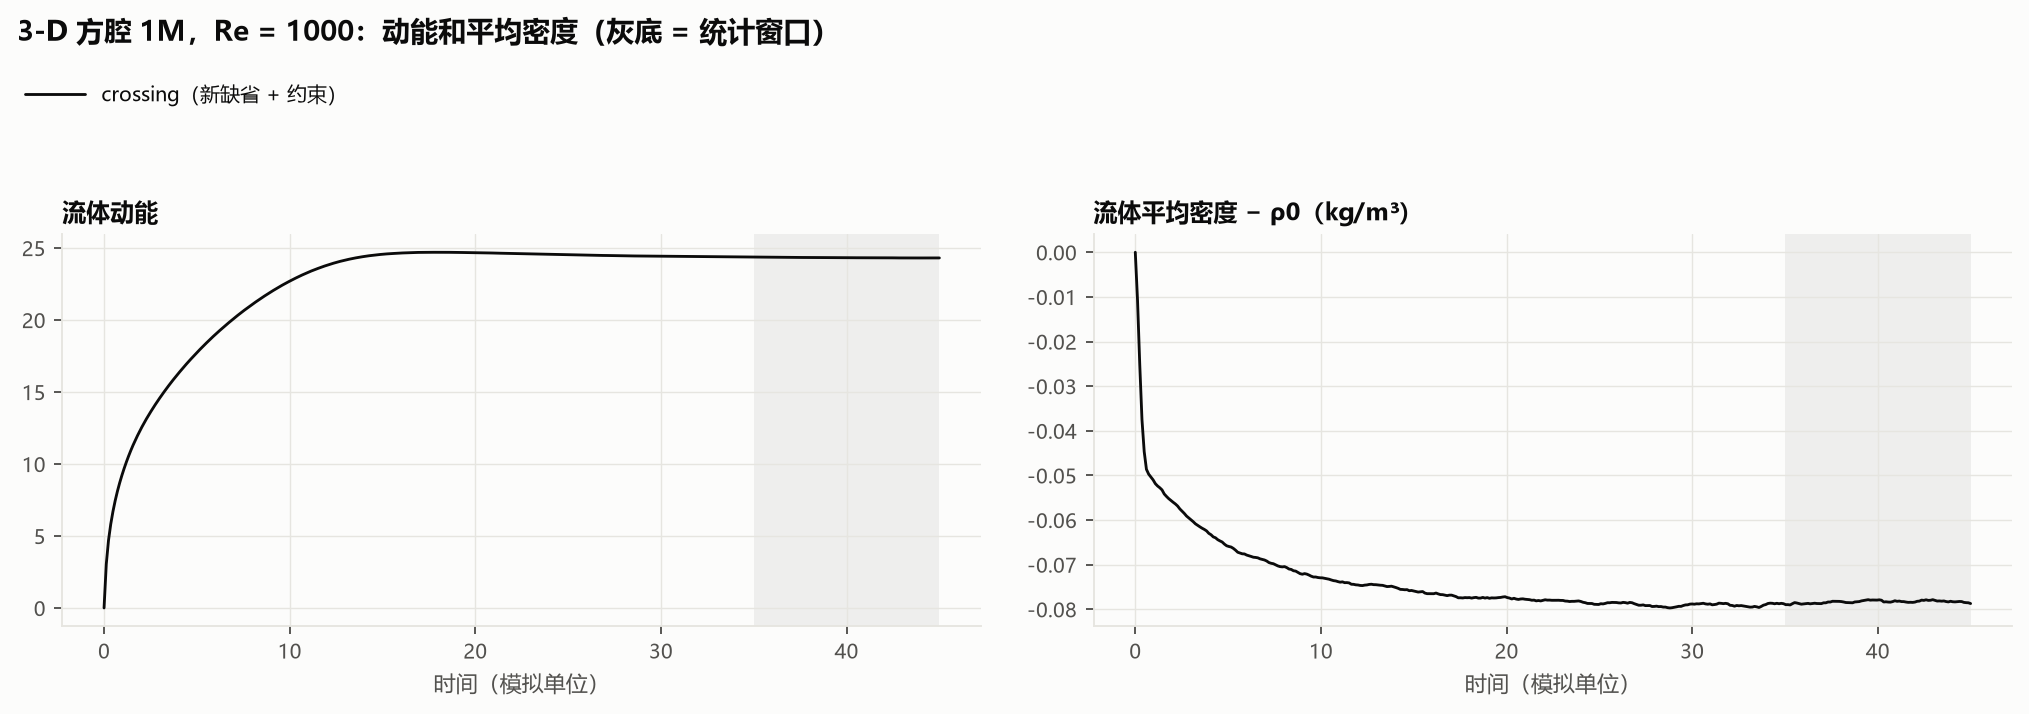
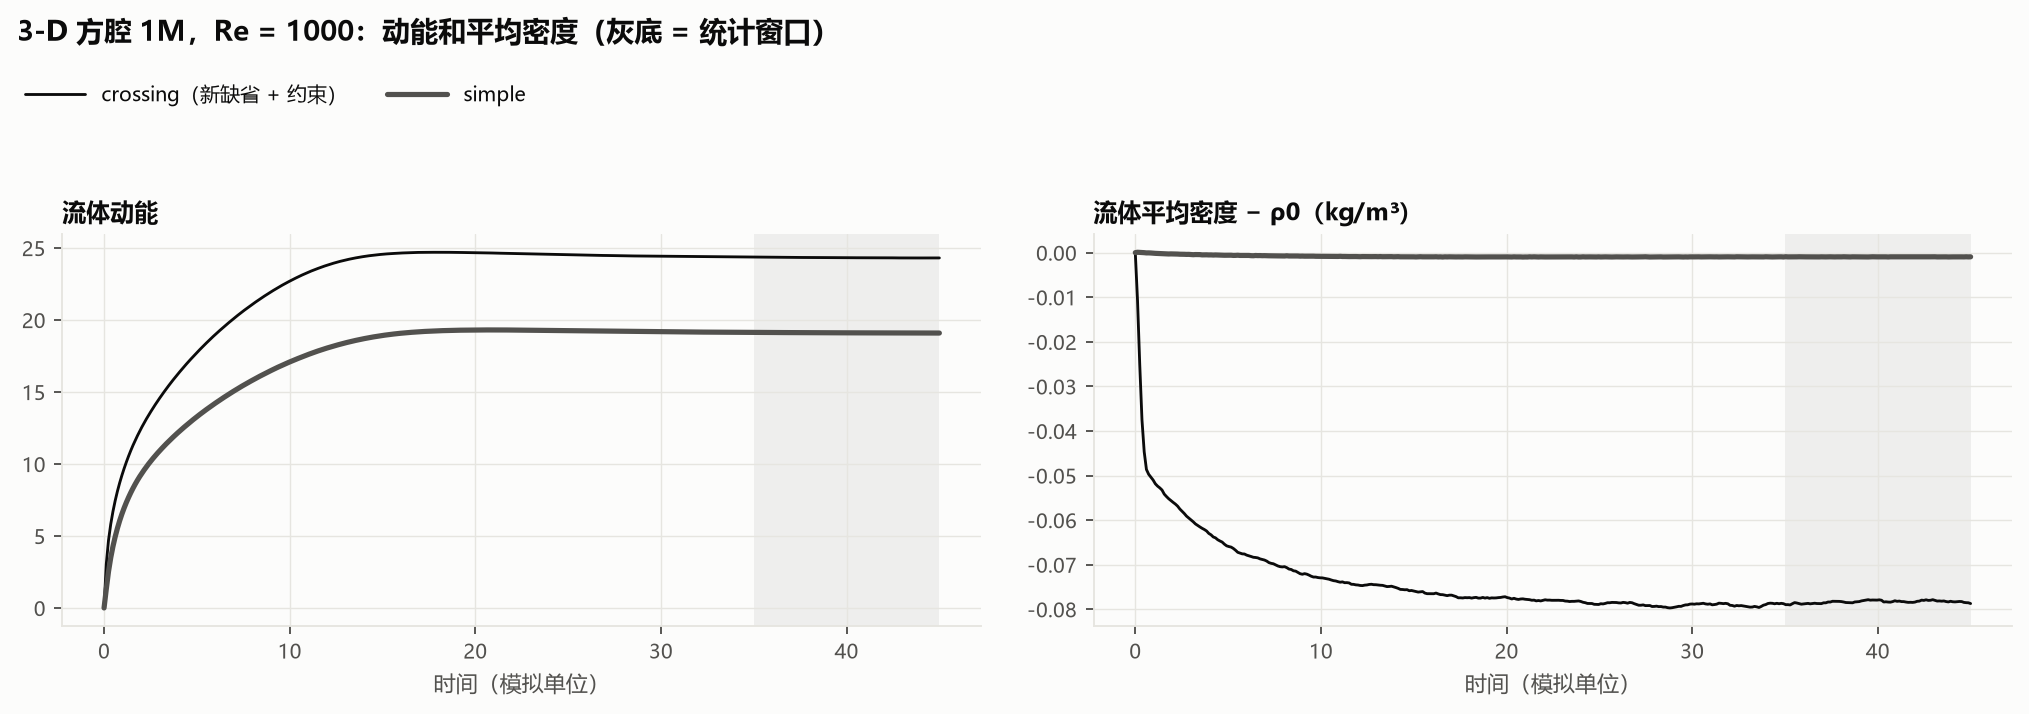
report section 19, fourth update: the 3-D cavity simple run (t = 45) - stable, 10.8 ms per step; crossing's main vortex about 15 % stronger than simple's
Claude-Session: https://claude.ai/code/session_01Bm1HYXBKtvVtXUBSQW4W5E

diff --git a/claude/wall_crossing/report_source.md b/claude/wall_crossing/report_source.md
@@ -6,7 +6,7 @@
 - 每个数字后面的 `wc-…` 是 `logs/wall_crossing/runs.jsonl` 里的记录号。`logs/` 不入库，所以记录文件另存了一份在 `claude/wall_crossing/runs.jsonl`（本机）和 `claude/wall_crossing/runs_DESKTOP-9IN3NPD.jsonl`（第二台机器）。
 
 > **本报告的状态（2026-11-17 22:35 之后）**：这是一份没有收尾的草稿。用户在 22:35 要求停掉所有长运行，只做第 6 节的机理确认实验，并且不继续原任务里没做完的项目；11-18 又先后要求做第 7 节和第 8 节的诊断，再要求改一个缺省值并重新验证（第 9 节），最后给了一份新的任务书：速度的二阶延拓（第 10 节）；都不继续原任务。因此：
-> - 第 6 到 18 节是完整的；第 19 节（2026-11-19，长时间验证）进行中：第 2 节（短检查）已完成并写入，第 3 节的长运行 03:02 起在跑，3-D crossing 和远端 adami 已写入。最新的是第 19 节，它之前是第 18 节（2026-11-19，完整方案设为 crossing 的缺省）、第 17 节（2026-11-19，250² 完整方案 + 约束续跑到 t = 200）、第 16 节（2026-11-18，ψ_min、速度极值和涡心的后处理检验，没有新运行）、第 15 节（2026-11-18，封闭域的流体总体积约束；完整方案 + 约束的 250² 和 500²）、第 14 节（完整方案：逐对几何 + 完整向量 + 两个反射）、第 13 节（反射版和“逐对几何 + 完整向量”跑到 t = 100）、第 12 节（逐对几何和压力、密度在壁面处的反射）、第 10 节（速度的二阶延拓）和第 11 节（旧缺省与一阶的场之差）；第 7 节更正了第 6 节结论里的一句话。第 10 节起“一阶”指第 9 节改过之后的现缺省（`normal`），“旧缺省”指 `full`。
+> - 第 6 到 18 节是完整的；第 19 节（2026-11-19，长时间验证）进行中：第 2 节（短检查）已完成并写入，第 3 节的长运行 03:02 起在跑，3-D crossing / simple 和远端 adami 已写入。最新的是第 19 节，它之前是第 18 节（2026-11-19，完整方案设为 crossing 的缺省）、第 17 节（2026-11-19，250² 完整方案 + 约束续跑到 t = 200）、第 16 节（2026-11-18，ψ_min、速度极值和涡心的后处理检验，没有新运行）、第 15 节（2026-11-18，封闭域的流体总体积约束；完整方案 + 约束的 250² 和 500²）、第 14 节（完整方案：逐对几何 + 完整向量 + 两个反射）、第 13 节（反射版和“逐对几何 + 完整向量”跑到 t = 100）、第 12 节（逐对几何和压力、密度在壁面处的反射）、第 10 节（速度的二阶延拓）和第 11 节（旧缺省与一阶的场之差）；第 7 节更正了第 6 节结论里的一句话。第 10 节起“一阶”指第 9 节改过之后的现缺省（`normal`），“旧缺省”指 `full`。
 > - **第 9 节改了一个缺省值**：`numerics.wall_crossing.continuity_wall_component` 从 `full` 改成 `normal`。第 1 到 8 节里 crossing 的全部结果都是改之前（`full`）的；各表里标着"旧缺省"或 `full` 的就是它。
 > - **第 18 节改了四个缺省值**（从提交 `3cba19f` 起）：`geometry` → `pairwise`、`continuity_wall_component` → `full`、`pressure_wall` → `reflection`、`delta_wall` → `reflection`（完整方案）；约束仍默认关闭。第 1 到 17 节里 crossing 的结果都是改之前的缺省；第 9 到 17 节说的“现缺省”“一阶”指 2026-11-18 的缺省（nearest_wall + normal + extension + extension）。
 > - 第 1–4 节是停止之前写的。其中标着"**未完成**"的地方没有再补：结论摘要、6.4 的文字结论和 1000² 一档、3-D 方腔的互比、3-D 计时、K = 2 吞吐、各阶段的"未验证"清单、下一步建议。
@@ -2159,7 +2159,7 @@ float64，ξ = 0，粒子在点阵上，盒含四个角。记录 wc-20261118-165
 
 用户的任务书：用现在的缺省配置（完整方案，封闭域算例里打开总体积约束），先做约 1 小时的短检查（第 2 节），全部通过后在两张卡上同时启动约 9 小时的长运行（第 3 节），按时间点把进展写进报告。工具是 `experiment/wall_crossing/long_validation.py`（表和图）、`box_run.py` / `box_run_supervised.py`（3-D 长运行）、`cavity_run.py` + `cavity_watch.py`（2-D 长运行）。
 
-> **本节的状态**：第三次更新（2026-11-19 06:55）：第 2 节（短检查）全部做完；第 3 节的 3-D crossing（06:21，19.5）和远端 1000² adami（06:45，19.6）跑完并写入；1000² 完整方案、3-D simple / adami 在跑，结果待补（19.4、19.5、19.7）。
+> **本节的状态**：第四次更新（2026-11-19 08:45）：第 2 节（短检查）全部做完；第 3 节的 3-D crossing（06:21）、3-D simple（08:35，19.5）和远端 1000² adami（06:45，19.6）跑完并写入；1000² 完整方案、3-D adami 在跑，结果待补（19.4、19.5、19.7）。
 
 **先说结果（第 2 节，短检查）**
 
@@ -2297,12 +2297,12 @@ float64，ξ = 0，粒子在点阵上，盒含四个角。记录 wc-20261118-165
 
 ### 19.3 长运行：配置和预计结束时刻
 
-| 运行 | 卡 | 算例和配置 | 结束条件 | 启动 | 结束 / 预计结束（06:51 的进度推算） |
+| 运行 | 卡 | 算例和配置 | 结束条件 | 启动 | 结束 / 预计结束（08:37 的进度推算） |
 |---|---|---|---|---|---|
-| 2-D 方腔 1000²（`n1000_complete_volume`） | GPU 0（显示卡） | `lid_driven_cavity_2d_n1000_xi0p001_eps0p0025_crossing`：新缺省 + 约束 | 运行器的协议：max(100, 定常 + 20)；13,333,333 步 | 03:02 | 约 11:10（06:51 在 t = 46.5，455 步 / 秒；比 03:33 估的慢了 5 %） |
+| 2-D 方腔 1000²（`n1000_complete_volume`） | GPU 0（显示卡） | `lid_driven_cavity_2d_n1000_xi0p001_eps0p0025_crossing`：新缺省 + 约束 | 运行器的协议：max(100, 定常 + 20)；13,333,333 步 | 03:02 | 约 11:10（08:37 在 t = 68.3，451 步 / 秒；比 03:33 估的慢了 5 %） |
 | 3-D 方腔 crossing（`cavity3d_1m_crossing_long`） | GPU 1（无头） | `cavity3d_1m_crossing`：新缺省 + 约束 | t = 45（750,000 步） | 03:02 | **06:21 结束**，见 19.5 |
-| 3-D 方腔 simple（`cavity3d_1m_simple_long`） | GPU 1 | `cavity3d_1m` | t = 45 | 06:21 | 约 08:35（06:51 在 t = 10.3，96 步 / 秒） |
-| 3-D 方腔 adami（`cavity3d_1m_adami_long`） | GPU 1 | `cavity3d_1m_adami` | t = 45 | simple 之后 | 约 11:00 |
+| 3-D 方腔 simple（`cavity3d_1m_simple_long`） | GPU 1 | `cavity3d_1m` | t = 45 | 06:21 | **08:35 结束**，见 19.5 |
+| 3-D 方腔 adami（`cavity3d_1m_adami_long`） | GPU 1 | `cavity3d_1m_adami` | t = 45 | 08:35 | 约 11:05（86 步 / 秒） |
 | 2-D 方腔 1000² adami（远端 `n1000_adami`） | 远端 RTX 5090 | `lid_driven_cavity_2d_n1000_xi0p001_eps0p0025_adami`，代码 `029313a` | 从 t = 39.69 的检查点续跑，协议同上 | 03:02 | **06:45 结束**，见 19.6 |
 
 - 2.2 的定位运行（03:04–03:33）与长运行共用了两张卡。这段时间里 1000² 平均 395 步 / 秒（单独时 478），3-D crossing 平均 49 步 / 秒（单独时约 65）。每步时间只用这段之后的数据报告（3-D 用 t ≥ 10）。
@@ -2314,17 +2314,22 @@ float64，ξ = 0，粒子在点阵上，盒含四个角。记录 wc-20261118-165
 
 ### 19.5 3-D 方腔，三种模式
 
-**进度**：crossing 06:21 跑完（第二次更新，06:30）。simple 06:21 起在 GPU 1 上跑，adami 在它之后；下面的表只列已经结束的模式，结束一个补一个。
+**进度**：crossing 06:21 跑完（第二次更新），simple 08:35 跑完（第四次更新，08:45）。adami 08:35 起在 GPU 1 上跑；下面的表只列已经结束的模式，adami 结束后补上。
 
 **稳定性和每步时间**
 
 <!-- include: tables/long_cavity3d_runs.md -->
 
-- **crossing（新缺省 + 约束）稳定**：t = 0 到 45 共 750,000 步，一段跑完，没有中断、没有续跑。粒子数 1,685,159 自始至终不变；越出盒的粒子始终为 0；流体最大速度最大 0.950（盖速的 0.95 倍，停止条件是 1.05 倍）。
-- **每步时间**：t ≥ 10 的 15.3 ms（65.3 步 / 秒）。这一段没有其他运行共用这张卡（2.2 的定位运行 03:33 结束时它在 t ≈ 5.6）。比 2.4 试跑的 14.7 ms 慢 4 %：这次每 0.5 还取一次中心线剖面，另一张卡上的 1000² 同时在跑，两者共用 CPU 和主机内存。整个运行 3 小时 19 分，平均 62.7 步 / 秒（含定位运行占卡的 30 分钟）。
-- **动能**：t ≈ 17 到达最大值 24.7，之后缓慢下降：每 2.5 个时间单位的平均值在 t = 20、25、30、35、40、45 是 24.69、24.56、24.44、24.38、24.33、24.31。窗口 35–45 内的斜率是 −0.0062 每时间单位（每时间单位 −0.025 %），整个窗口内变化 0.3 %。我认为在窗口里已经大体平稳，但还有一个慢的下降没有走完，没有到严格的定常。
-- **平均密度和约束**：平均密度在 t ≈ 1 降到 ρ0 − 0.05，之后慢慢降到 ρ0 − 0.079（t ≈ 25 以后不再变）；θ 停在 +7.8e-5 到 +8.0e-5。这与 2.3 的 3-D 静水盒是同一个现象：3-D 里有一个持续的密度汇，比例式约束留下"汇 × τ"的偏移（τ = 1）。2-D 方腔同一配置的 θ 小一个数量级以上（250² 在 t = 70–100 是 +6e-6 到 +8e-6，500² 是 −2.7e-6），3-D 静水盒（2.3）大四倍（+3.3e-4 / +2.7e-4）。
-- **平均压力**：−781 Pa，即 −0.78 ρ0U²（这个算例的声速是 100，c²·(−0.079) = −790）。负压粒子占 99.99 %：密度的散布（最小 ρ0 − 0.17，最大 ρ0 + 0.14）比偏移小，几乎所有粒子都低于 ρ0。这是约束偏移的直接后果，不是新的不稳定：最大速度、粒子数、越出盒都正常。
+- **两种模式都稳定**：t = 0 到 45 各 750,000 步，各一段跑完，没有中断、没有续跑。粒子数 1,685,159 自始至终不变；越出盒的粒子始终为 0；流体最大速度最大 0.950（crossing）和 0.899（simple），停止条件是盖速的 1.05 倍。
+- **每步时间**（t ≥ 10，含每 0.1 一次的采样和每 0.5 一次的剖面）：crossing 15.3 ms（65.3 步 / 秒），simple 10.8 ms（92.7 步 / 秒），crossing 是 simple 的 1.42 倍。两者都在另一张卡跑 1000² 的同时测得，这一段没有其他运行共用这张卡（2.2 的定位运行 03:33 结束时 crossing 在 t ≈ 5.6）。比 2.4 试跑（14.7 / 9.9 ms）各慢 4 % 和 9 %：试跑没有剖面，也不是两张卡同时在跑。crossing 整个运行 3 小时 19 分（平均 62.7 步 / 秒，含定位运行占卡的 30 分钟），simple 2 小时 14 分。
+- **动能**：
+  - crossing 在 t ≈ 17 到达最大值 24.7，之后缓慢下降：每 2.5 个时间单位的平均值在 t = 20、25、30、35、40、45 是 24.69、24.56、24.44、24.38、24.33、24.31。
+  - simple 在 t ≈ 22 到达最大值 19.3，之后同样缓慢下降：19.27、19.28、19.20、19.15、19.11、19.09。
+  - 窗口 35–45 内的斜率是 −0.0062（crossing）和 −0.0044（simple）每时间单位，都是每时间单位 −0.02 到 −0.03 %，整个窗口内变化 0.2–0.3 %。两者都大体平稳，但都还有一个慢的下降没有走完，没有到严格的定常。
+- **平均密度和约束**：
+  - crossing（有约束）的平均密度在 t ≈ 1 降到 ρ0 − 0.05，之后慢慢降到 ρ0 − 0.079（t ≈ 25 以后不再变）；θ 停在 +7.8e-5 到 +8.0e-5。这与 2.3 的 3-D 静水盒是同一个现象：3-D 里有一个持续的密度汇，比例式约束留下"汇 × τ"的偏移（τ = 1）。2-D 方腔同一配置的 θ 小一个数量级以上（250² 在 t = 70–100 是 +6e-6 到 +8e-6，500² 是 −2.7e-6），3-D 静水盒（2.3）大四倍（+3.3e-4 / +2.7e-4）。
+  - simple（没有约束，算例没有改）的平均密度停在 ρ0 − 0.0009，没有这个汇。
+- **平均压力**：crossing −781 Pa，即 −0.78 ρ0U²（这个算例的声速是 100，c²·(−0.079) = −790），负压粒子占 99.99 %：密度的散布（最小 ρ0 − 0.17，最大 ρ0 + 0.14）比偏移小，几乎所有粒子都低于 ρ0。这是约束偏移的直接后果，不是新的不稳定：最大速度、粒子数、越出盒都正常。simple 是 −8.5 Pa（−0.0085 ρ0U²），负压粒子占 75 %。
 
 **中心线剖面（t = 35–45 平均）**
 
@@ -2334,9 +2339,10 @@ float64，ξ = 0，粒子在点阵上，盒含四个角。记录 wc-20261118-165
 
 ![3-D 方腔动能和平均密度](wall_crossing/figures/long_cavity3d_history.png)
 
-- 剖面取过盒心的两条线（z = 0.5 平面内）：竖线上的 u(y)，横线上的 v(x)，各 101 点，是流体粒子的 Shepard 平均。窗口内 22 条剖面（每 0.5 一条，含两端）的平均。
-- 竖线最顶端的点 u = 0.85，不是盖速 1：这一点的 Shepard 平均只用了流体粒子，靠近盖的那一层平均进了低于盖速的流体。横线两端（x = 0、1）的 v 不为 0（+0.04、−0.07），原因相同。这只影响贴壁的一两个点。
-- 仓库里没有 3-D 方腔的参考数据，所以只做互比；simple 和 adami 跑完后补上三者之差。
+- 剖面取过盒心的两条线（z = 0.5 平面内）：竖线上的 u(y)，横线上的 v(x)，各 101 点，是流体粒子的 Shepard 平均。每种模式是窗口内 22 条剖面（每 0.5 一条，含两端）的平均。
+- **crossing 的主涡比 simple 强约 15 %**：u_min −0.275 对 −0.235，v_max +0.242 对 +0.206，v_min −0.424 对 −0.369（simple 分别弱 14.6 %、15.0 %、13.0 %）；动能 24.3 对 19.1（高 27 %）。两条线上的剖面差 rms 0.024 / 0.022，最大 0.10 / 0.057，集中在下壁附近的回流和右壁附近的下行流。中间段（y ≈ 0.3–0.9、x ≈ 0.3–0.7）两者几乎重合。
+- 哪个更接近真值，这里判断不了：仓库里没有 3-D 方腔的参考数据。2-D 方腔的方向是一致的：250² 上 simple 的 ψ_min 比 Marchi 弱 8.6 %，完整方案弱 1.4 %（wall 帧），两者差约 7 %；3-D 的 1M 每边只有 100 个粒子间距、h/dx = 4，比 2-D 的 250² 粗，差别更大在意料之中。这只是一个旁证，3-D 的绝对误差**未验证**。
+- 竖线最顶端的点 u = 0.85（crossing）和 0.75（simple），不是盖速 1：这一点的 Shepard 平均只用了流体粒子，靠近盖的那一层平均进了低于盖速的流体。横线两端（x = 0、1）的 v 不为 0，原因相同。这只影响贴壁的一两个点。
 
 ### 19.6 远端：1000² adami
 

diff --git a/claude/wall_crossing/tables/long_cavity3d_runs.md b/claude/wall_crossing/tables/long_cavity3d_runs.md
@@ -1,3 +1,4 @@
 | 模式 | 到达的 t | 粒子数（始 → 末） | 越出盒（最大） | 最大速度（最大） | 动能（窗口 35–45 平均 ± 标准差） | 窗口内动能斜率（每时间单位） | 平均密度 − ρ0（末） | θ（末） | 步 / 秒（t ≥ 10，含采样） | 每步毫秒 | 段数 | 停止条件 |
 |---|---|---|---|---|---|---|---|---|---|---|---|---|
 | crossing（新缺省 + 约束） | 45.00 | 1,685,159 → 1,685,159 | 0 | 0.9496 | 24.327 ± 0.018 | -0.0062 | -0.0787 | +7.87e-05 | 65.3 | 15.3 | 1 | 没有 |
+| simple | 45.00 | 1,685,159 → 1,685,159 | 0 | 0.8990 | 19.109 ± 0.013 | -0.0044 | -0.0009 | — | 92.7 | 10.8 | 1 | 没有 |

diff --git a/claude/wall_crossing/tables/commits.md b/claude/wall_crossing/tables/commits.md
@@ -75,5 +75,6 @@
 | `afbaad0` | cavity_tables.py: label of the 1000^2 long run of section 19 (complete_volume) |
 | `2e77e0e` | long_validation.py: the 3-D step rate between samples (box_run stores the average since the segment start) |
 | `1ce7ea7` | report section 19, second update: the 3-D cavity crossing run (t = 45) - stable, 15.3 ms per step, centre-line profiles and histories |
+| `055343a` | report section 19, third update: the remote 1000^2 adami run (t = 100, window 80-100) - psi_min +0.24 % mid frame / +0.14 % wall frame, stable |
 
 （加入本报告的那个提交排在这些之后。）

diff --git a/claude/wall_crossing/tables/long_cavity3d_profiles.md b/claude/wall_crossing/tables/long_cavity3d_profiles.md
@@ -1,3 +1,5 @@
 | 模式 / 差 | 窗口内剖面个数 | u 沿 y（过中心的竖线）的最小值 | v 沿 x（过中心的横线）的最大值 | v 沿 x 的最小值 |
 |---|---|---|---|---|
 | crossing（新缺省 + 约束） | 22 | -0.2748（y = 0.130） | +0.2420（x = 0.110） | -0.4235（x = 0.910） |
+| simple | 22 | -0.2346（y = 0.130） | +0.2057（x = 0.120） | -0.3686（x = 0.910） |
+| crossing（新缺省 + 约束） − simple |  | rms 0.0242，最大 0.1021（u 线） | rms 0.0220，最大 0.0568（v 线） |  |
